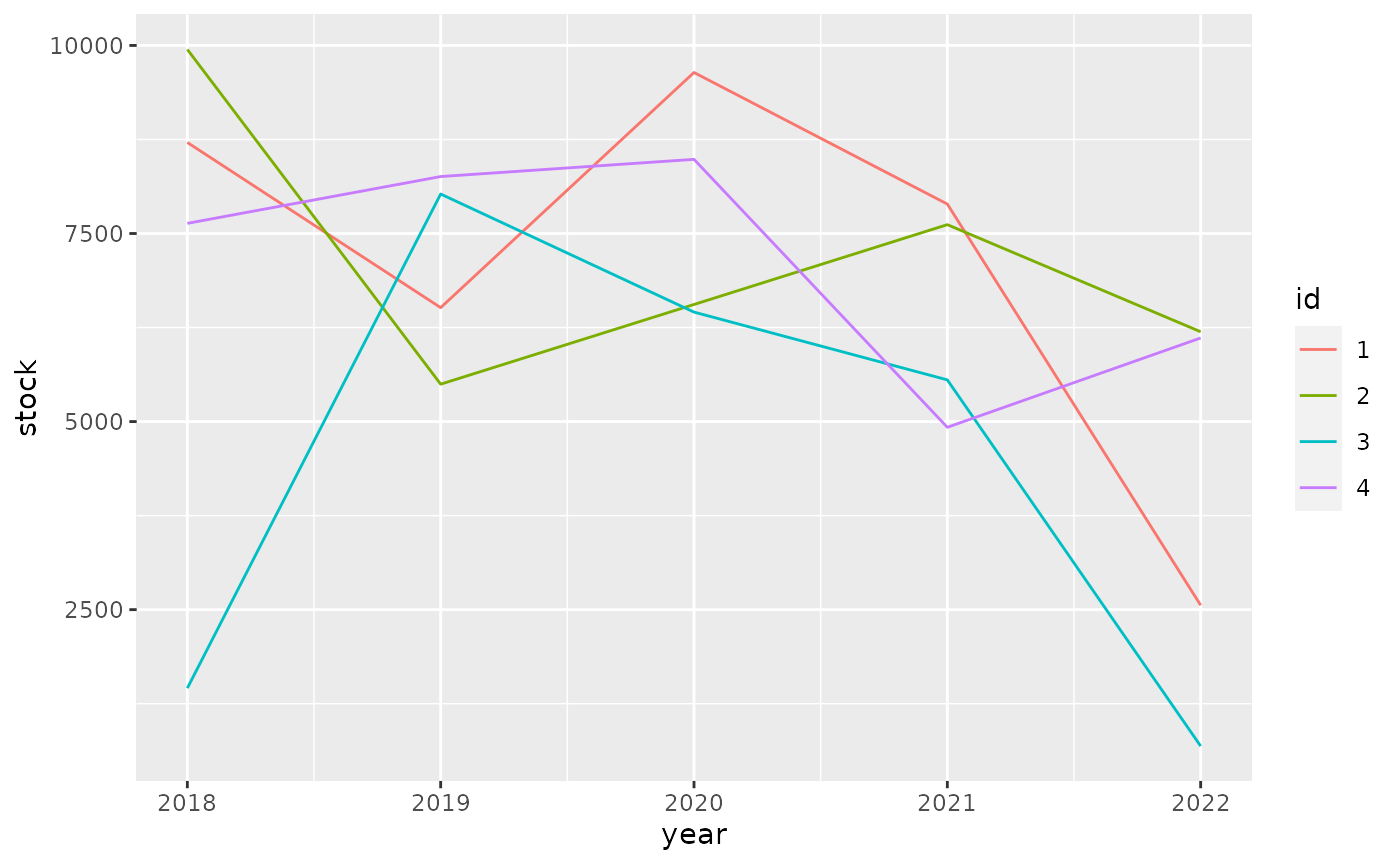
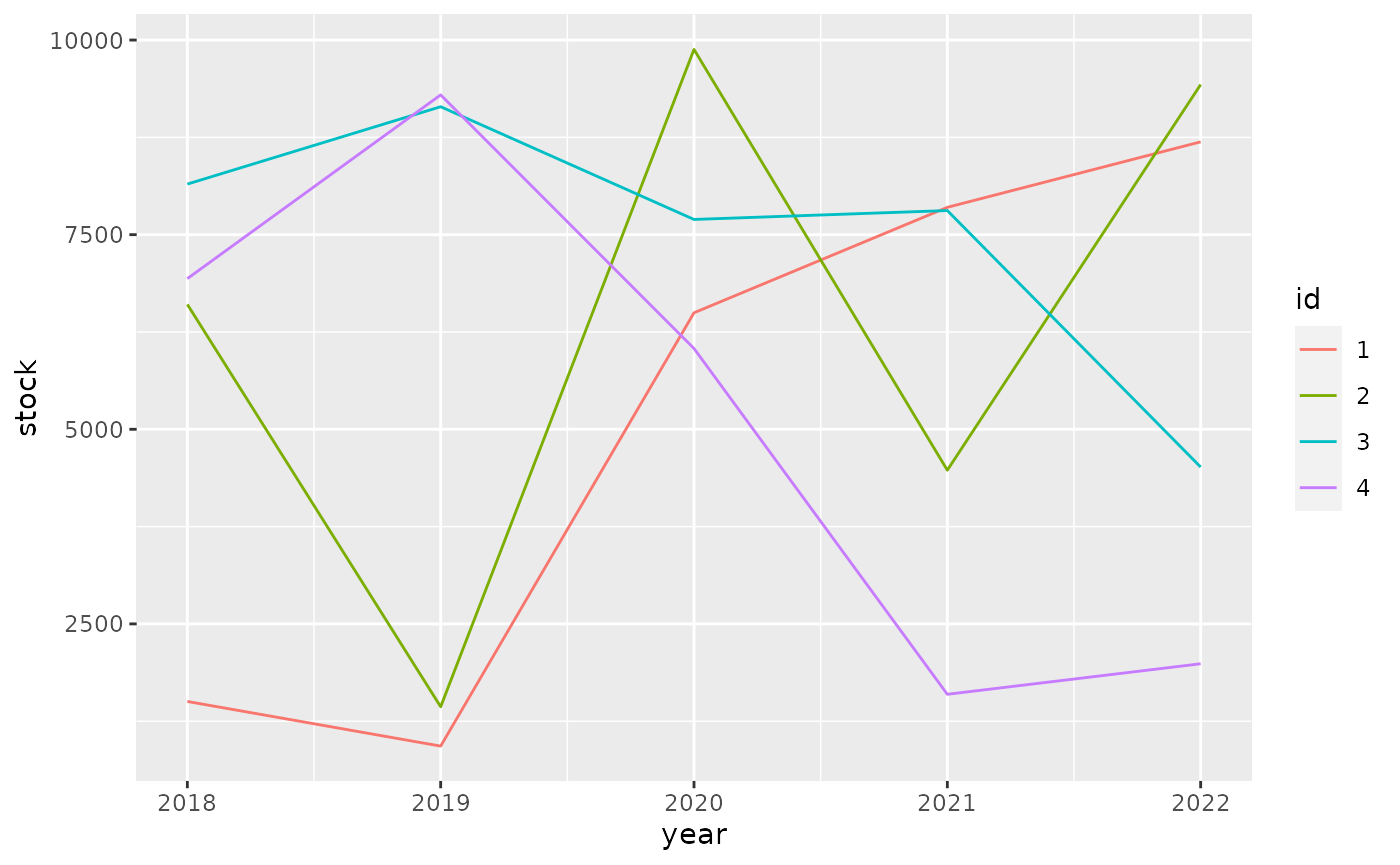
Built site for tibble: 3.0.5.9001@1c57867

diff --git a/dev/articles/formats.html b/dev/articles/formats.html
@@ -53,7 +53,7 @@
         <a class="navbar-brand" href="../index.html">tibble</a>
         <div class="info hidden-xs hidden-sm">
           <span class="partof">part of the <a href="https://tidyverse.org">tidyverse</a></span>
-          <span class="version version-danger" data-toggle="tooltip" data-placement="bottom" title="In-development version">3.0.5.9000</span>
+          <span class="version version-danger" data-toggle="tooltip" data-placement="bottom" title="In-development version">3.0.5.9001</span>
         </div>
       </div>
     </div>
@@ -220,10 +220,10 @@
 <span class="co">#&gt; # A tibble: 4 x 6</span>
 <span class="co">#&gt;   id       `2018`    `2019`    `2020`    `2021`    `2022`</span>
 <span class="co">#&gt;   &lt;fct&gt; &lt;dbl:fmt&gt; &lt;dbl:fmt&gt; &lt;dbl:fmt&gt; &lt;dbl:fmt&gt; &lt;dbl:fmt&gt;</span>
-<span class="co">#&gt; 1 1     $8,710.32 $6,514.76 $9,640.37 $7,891.47 $2,558.54</span>
-<span class="co">#&gt; 2 2     $9,946.77 $5,497.44 $6,556.67 $7,617.72 $6,194.12</span>
-<span class="co">#&gt; 3 3     $1,456.43 $8,024.77 $6,455.25 $5,554.45   $686.25</span>
-<span class="co">#&gt; 4 4     $7,634.92 $8,257.16 $8,485.79 $4,924.10 $6,111.29</span></code></pre></div>
+<span class="co">#&gt; 1 1     $1,503.71   $930.32 $6,496.53 $7,851.09 $8,692.23</span>
+<span class="co">#&gt; 2 2     $6,604.47 $1,435.61 $9,879.27 $4,474.58 $9,428.02</span>
+<span class="co">#&gt; 3 3     $8,149.73 $9,143.56 $7,695.47 $7,809.71 $4,514.85</span>
+<span class="co">#&gt; 4 4     $6,935.14 $9,295.32 $6,037.68 $1,595.75 $1,987.85</span></code></pre></div>
 <p>For ggplot2 we need to do <a href="https://github.com/tidyverse/ggplot2/pull/4065">some work</a> to show apply the formatting to the scales.</p>
 <div class="sourceCode" id="cb6"><pre class="downlit sourceCode r">
 <code class="sourceCode R"><span class="kw"><a href="https://rdrr.io/r/base/library.html">library</a></span><span class="op">(</span><span class="va"><a href="https://ggplot2.tidyverse.org">ggplot2</a></span><span class="op">)</span>
@@ -234,10 +234,10 @@
   <span class="fu"><a href="https://ggplot2.tidyverse.org/reference/geom_path.html">geom_line</a></span><span class="op">(</span><span class="op">)</span></code></pre></div>
 <p><img src="formats_files/figure-html/unnamed-chunk-7-1.png" width="700"></p>
 <p>It pays off to specify formatting very early in the process. The diagram below shows the principal stages of data analysis and exploration from “R for data science”.</p>
-<div id="htmlwidget-80a85d44066ce29eb823" style="width:700px;height:432.632880098888px;" class="DiagrammeR html-widget"></div>
-<script type="application/json" data-for="htmlwidget-80a85d44066ce29eb823">{"x":{"diagram":"graph TD\n  Import --> Tidy\n  Tidy --> Transform\n  Transform --> Visualize\n  Visualize --> Communicate\n  Visualize --> Model\n  Model -.-> Transform"},"evals":[],"jsHooks":[]}</script><p>The subsequent diagram adds data formats, communication options, and explicit data formatting. The original r4ds transitions are highlighted in bold. There are two principal options where to apply formatting for results: right before communicating them, or right after importing.</p>
-<div id="htmlwidget-a444f54d74f89d548d11" style="width:700px;height:432.632880098888px;" class="DiagrammeR html-widget"></div>
-<script type="application/json" data-for="htmlwidget-a444f54d74f89d548d11">{"x":{"diagram":"graph TD\n  .csv --> Import\n  API --> Import\n  DBI --> Import\n  dbplyr --> Import\n  Import -.-> Format[Format for analysis]\n  Format -.-> Tidy\n\n  subgraph r4ds\n  Import ==> Tidy\n  Tidy ==> Transform\n  Transform ==> Visualize\n  Visualize ==> Model\n  Model -.-> Transform\n  Visualize ==> Communicate\n  end\n\n  Visualize -.-> FormatComm[Format for communication]\n  FormatComm -.-> Communicate\n\n  FormatComm -- Apply formatting early --> Format\n\n  dbplyr -.-> Tidy\n  dbplyr -.-> Transform\n  dbplyr -.-> Visualize\n\n  Communicate --> gt\n  Communicate --> ggplot2\n  Communicate --> DT\n  Communicate --> plotly"},"evals":[],"jsHooks":[]}</script><p>Applying formatting early in the process gives the added benefit of showing the data in a useful format during the “Tidy”, “Transform”, and “Visualize” stages. For this to be useful, we need to ensure that the formatting options applied early:</p>
+<div id="htmlwidget-187a70adc67721cb8c26" style="width:700px;height:432.632880098888px;" class="DiagrammeR html-widget"></div>
+<script type="application/json" data-for="htmlwidget-187a70adc67721cb8c26">{"x":{"diagram":"graph TD\n  Import --> Tidy\n  Tidy --> Transform\n  Transform --> Visualize\n  Visualize --> Communicate\n  Visualize --> Model\n  Model -.-> Transform"},"evals":[],"jsHooks":[]}</script><p>The subsequent diagram adds data formats, communication options, and explicit data formatting. The original r4ds transitions are highlighted in bold. There are two principal options where to apply formatting for results: right before communicating them, or right after importing.</p>
+<div id="htmlwidget-19e326dc2c0c7d1e0e33" style="width:700px;height:432.632880098888px;" class="DiagrammeR html-widget"></div>
+<script type="application/json" data-for="htmlwidget-19e326dc2c0c7d1e0e33">{"x":{"diagram":"graph TD\n  .csv --> Import\n  API --> Import\n  DBI --> Import\n  dbplyr --> Import\n  Import -.-> Format[Format for analysis]\n  Format -.-> Tidy\n\n  subgraph r4ds\n  Import ==> Tidy\n  Tidy ==> Transform\n  Transform ==> Visualize\n  Visualize ==> Model\n  Model -.-> Transform\n  Visualize ==> Communicate\n  end\n\n  Visualize -.-> FormatComm[Format for communication]\n  FormatComm -.-> Communicate\n\n  FormatComm -- Apply formatting early --> Format\n\n  dbplyr -.-> Tidy\n  dbplyr -.-> Transform\n  dbplyr -.-> Visualize\n\n  Communicate --> gt\n  Communicate --> ggplot2\n  Communicate --> DT\n  Communicate --> plotly"},"evals":[],"jsHooks":[]}</script><p>Applying formatting early in the process gives the added benefit of showing the data in a useful format during the “Tidy”, “Transform”, and “Visualize” stages. For this to be useful, we need to ensure that the formatting options applied early:</p>
 <ul>
 <li>give a good user experience for analysis
 <ul>

diff --git a/dev/articles/types.html b/dev/articles/types.html
@@ -53,7 +53,7 @@
         <a class="navbar-brand" href="../index.html">tibble</a>
         <div class="info hidden-xs hidden-sm">
           <span class="partof">part of the <a href="https://tidyverse.org">tidyverse</a></span>
-          <span class="version version-danger" data-toggle="tooltip" data-placement="bottom" title="In-development version">3.0.5.9000</span>
+          <span class="version version-danger" data-toggle="tooltip" data-placement="bottom" title="In-development version">3.0.5.9001</span>
         </div>
       </div>
     </div>
@@ -349,8 +349,8 @@
 #&gt; $ `named list`  &lt;named list&gt; [1]
 #&gt; $ factor        &lt;fct&gt; A
 #&gt; $ ordered       &lt;ord&gt; a
-#&gt; $ Date          &lt;date&gt; 2021-01-08
-#&gt; $ POSIXt        &lt;dttm&gt; 2021-01-08 06:04:33
+#&gt; $ Date          &lt;date&gt; 2021-01-09
+#&gt; $ POSIXt        &lt;dttm&gt; 2021-01-09 03:40:15
 #&gt; $ difftime      &lt;drtn&gt; 1 secs
 #&gt; $ hms           &lt;time&gt; 00:00:01
 #&gt; $ integer64     &lt;int64&gt; 10000000000
@@ -380,7 +380,7 @@
 <span class="co">#&gt;             "sym"</span>
 <span class="co">#&gt;         }, typeof(x))</span>
 <span class="co">#&gt; }</span>
-<span class="co">#&gt; &lt;bytecode: 0x557189861280&gt;</span>
+<span class="co">#&gt; &lt;bytecode: 0x5583c57bdb80&gt;</span>
 <span class="co">#&gt; &lt;environment: namespace:pillar&gt;</span></code></pre></div>
 </div>
   </div>

diff --git a/dev/news/index.html b/dev/news/index.html
@@ -100,7 +100,7 @@
         <a class="navbar-brand" href="../index.html">tibble</a>
         <div class="info hidden-xs hidden-sm">
           <span class="partof">part of the <a href="https://tidyverse.org">tidyverse</a></span>
-          <span class="version version-danger" data-toggle="tooltip" data-placement="bottom" title="In-development version">3.0.5.9000</span>
+          <span class="version version-danger" data-toggle="tooltip" data-placement="bottom" title="In-development version">3.0.5.9001</span>
         </div>
       </div>
     </div>
@@ -187,6 +187,14 @@
       <small>Source: <a href='https://github.com/tidyverse/tibble/blob/master/NEWS.md'><code>NEWS.md</code></a></small>
     </div>
 
+    <div id="tibble-3059001" class="section level1">
+<h1 class="page-header" data-toc-text="3.0.5.9001">
+<a href="#tibble-3059001" class="anchor"></a>tibble 3.0.5.9001<small> Unreleased </small>
+</h1>
+<ul>
+<li>Avoid tidy evaluation in pillar compatibility code.</li>
+</ul>
+</div>
     <div id="tibble-3059000" class="section level1">
 <h1 class="page-header" data-toc-text="3.0.5.9000">
 <a href="#tibble-3059000" class="anchor"></a>tibble 3.0.5.9000<small> Unreleased </small>

diff --git a/dev/reference/name-repair-superseded.html b/dev/reference/name-repair-superseded.html
@@ -107,7 +107,7 @@ See vctrs::vec_as_names() for the implementation of the underlying logic." />
         <a class="navbar-brand" href="../index.html">tibble</a>
         <div class="info hidden-xs hidden-sm">
           <span class="partof">part of the <a href="https://tidyverse.org">tidyverse</a></span>
-          <span class="version version-danger" data-toggle="tooltip" data-placement="bottom" title="In-development version">3.0.5.9000</span>
+          <span class="version version-danger" data-toggle="tooltip" data-placement="bottom" title="In-development version">3.0.5.9001</span>
         </div>
       </div>
     </div>

diff --git a/dev/reference/tribble.html b/dev/reference/tribble.html
@@ -104,7 +104,7 @@ important.  Please see tibble-package for a general introduction." />
         <a class="navbar-brand" href="../index.html">tibble</a>
         <div class="info hidden-xs hidden-sm">
           <span class="partof">part of the <a href="https://tidyverse.org">tidyverse</a></span>
-          <span class="version version-danger" data-toggle="tooltip" data-placement="bottom" title="In-development version">3.0.5.9000</span>
+          <span class="version version-danger" data-toggle="tooltip" data-placement="bottom" title="In-development version">3.0.5.9001</span>
         </div>
       </div>
     </div>

diff --git a/dev/reference/enframe.html b/dev/reference/enframe.html
@@ -108,7 +108,7 @@ If the input has only one column, an unnamed vector is returned." />
         <a class="navbar-brand" href="../index.html">tibble</a>
         <div class="info hidden-xs hidden-sm">
           <span class="partof">part of the <a href="https://tidyverse.org">tidyverse</a></span>
-          <span class="version version-danger" data-toggle="tooltip" data-placement="bottom" title="In-development version">3.0.5.9000</span>
+          <span class="version version-danger" data-toggle="tooltip" data-placement="bottom" title="In-development version">3.0.5.9001</span>
         </div>
       </div>
     </div>

diff --git a/dev/reference/subsetting.html b/dev/reference/subsetting.html
@@ -119,7 +119,7 @@ data frame behavior, coerce to a data frame via as.data.frame()." />
         <a class="navbar-brand" href="../index.html">tibble</a>
         <div class="info hidden-xs hidden-sm">
           <span class="partof">part of the <a href="https://tidyverse.org">tidyverse</a></span>
-          <span class="version version-danger" data-toggle="tooltip" data-placement="bottom" title="In-development version">3.0.5.9000</span>
+          <span class="version version-danger" data-toggle="tooltip" data-placement="bottom" title="In-development version">3.0.5.9001</span>
         </div>
       </div>
     </div>

diff --git a/dev/reference/is_tibble.html b/dev/reference/is_tibble.html
@@ -102,7 +102,7 @@ and FALSE for all other objects, including regular data frames." />
         <a class="navbar-brand" href="../index.html">tibble</a>
         <div class="info hidden-xs hidden-sm">
           <span class="partof">part of the <a href="https://tidyverse.org">tidyverse</a></span>
-          <span class="version version-danger" data-toggle="tooltip" data-placement="bottom" title="In-development version">3.0.5.9000</span>
+          <span class="version version-danger" data-toggle="tooltip" data-placement="bottom" title="In-development version">3.0.5.9001</span>
         </div>
       </div>
     </div>

diff --git a/dev/reference/as_tibble.html b/dev/reference/as_tibble.html
@@ -119,7 +119,7 @@ as_tibble_col() converts a vector to a tibble with one column." />
         <a class="navbar-brand" href="../index.html">tibble</a>
         <div class="info hidden-xs hidden-sm">
           <span class="partof">part of the <a href="https://tidyverse.org">tidyverse</a></span>
-          <span class="version version-danger" data-toggle="tooltip" data-placement="bottom" title="In-development version">3.0.5.9000</span>
+          <span class="version version-danger" data-toggle="tooltip" data-placement="bottom" title="In-development version">3.0.5.9001</span>
         </div>
       </div>
     </div>

diff --git a/dev/reference/tbl_sum.html b/dev/reference/tbl_sum.html
@@ -104,7 +104,7 @@ The default implementation forwards to pillar::obj_sum()." />
         <a class="navbar-brand" href="../index.html">tibble</a>
         <div class="info hidden-xs hidden-sm">
           <span class="partof">part of the <a href="https://tidyverse.org">tidyverse</a></span>
-          <span class="version version-danger" data-toggle="tooltip" data-placement="bottom" title="In-development version">3.0.5.9000</span>
+          <span class="version version-danger" data-toggle="tooltip" data-placement="bottom" title="In-development version">3.0.5.9001</span>
         </div>
       </div>
     </div>

diff --git a/dev/reference/lst.html b/dev/reference/lst.html
@@ -105,7 +105,7 @@ call. lst() also generates missing names automatically." />
         <a class="navbar-brand" href="../index.html">tibble</a>
         <div class="info hidden-xs hidden-sm">
           <span class="partof">part of the <a href="https://tidyverse.org">tidyverse</a></span>
-          <span class="version version-danger" data-toggle="tooltip" data-placement="bottom" title="In-development version">3.0.5.9000</span>
+          <span class="version version-danger" data-toggle="tooltip" data-placement="bottom" title="In-development version">3.0.5.9001</span>
         </div>
       </div>
     </div>

diff --git a/dev/reference/view.html b/dev/reference/view.html
@@ -106,7 +106,7 @@ This function has no effect in noninteractive sessions." />
         <a class="navbar-brand" href="../index.html">tibble</a>
         <div class="info hidden-xs hidden-sm">
           <span class="partof">part of the <a href="https://tidyverse.org">tidyverse</a></span>
-          <span class="version version-danger" data-toggle="tooltip" data-placement="bottom" title="In-development version">3.0.5.9000</span>
+          <span class="version version-danger" data-toggle="tooltip" data-placement="bottom" title="In-development version">3.0.5.9001</span>
         </div>
       </div>
     </div>
